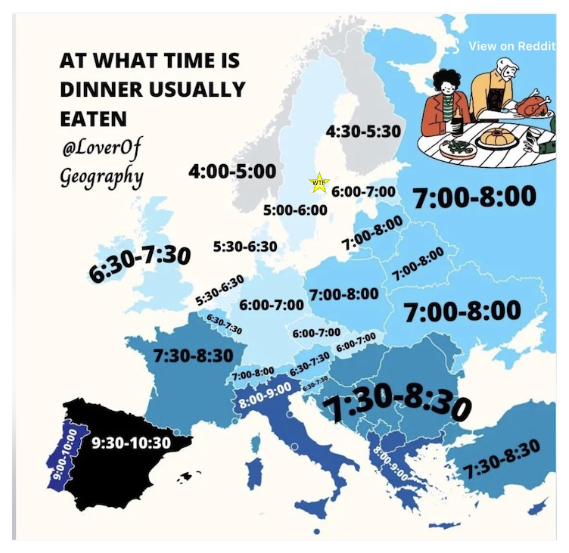
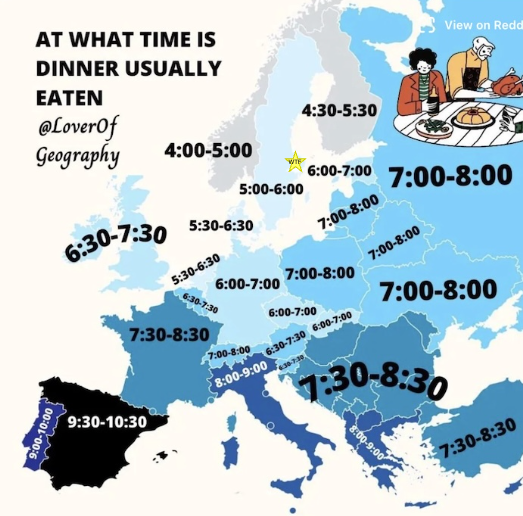
first cooking post

diff --git a/layouts/_default/post.html b/layouts/_default/post.html
@@ -1,11 +1,49 @@
 {{ define "header" }}
 <!-- Post Header -->
-<style type="text/css">
+<!-- <style type="text/css">
     header.intro-header {
-        /* background-image: url('{{ if .Params.image }}{{ .Params.image | relURL }}{{ else }}{{ .Site.Params.header_image | relURL}}{{ end }}') */
-        background-image: url('{{ .Site.Params.header_image | relURL}}');
+        background-image: url('{{ if .Params.image }}{{ .Params.image | relURL }}{{ else }}{{ .Site.Params.header_image | relURL}}{{ end }}')
+        /* background-image: url('{{ .Site.Params.header_image | relURL}}'); */
     }
+</style> -->
+
+<style type="text/css">
+  header.intro-header{
+    background-image:url('{{ if .Params.image }}{{ .Params.image | relURL }}{{ else }}{{ .Site.Params.header_image | relURL }}{{ end }}');
+    background-size: cover;
+    background-position: center;
+    position: relative;
+    overflow: hidden;
+  }
+
+  /* blurred background layer */
+  header.intro-header::before{
+    content:"";
+    position:absolute;
+    inset:0;
+    background: inherit;
+    filter: blur(3px);
+    transform: scale(1.05); /* avoid blur edge artifacts */
+    z-index: 0;
+  }
+
+  /* keep existing header content above blur */
+  header.intro-header .container,
+  header.intro-header .site-heading,
+  header.intro-header .post-heading{
+    position: relative;
+    z-index: 1;
+  }
+
+  /* blurred bounding box behind text */
+  header.intro-header .site-heading,
+  header.intro-header .post-heading{
+    display: inline-block;
+    backdrop-filter: blur(3px);
+    -webkit-backdrop-filter: blur(3px);
+  }
 </style>
+
 {{ if eq .Params.headerstyle "text" }}
 <header class="intro-header style-text" >
 {{ else }}
@@ -78,10 +116,10 @@
                 {{.TableOfContents}}
                 {{ end }}
                 -->
-                {{ with .Params.image }}
+                <!-- {{ with .Params.image }}
                 <img class="post-top-img" src="{{ . | relURL }}" alt="{{ $.Title }}" 
                 style="max-width:900px; max-height:420px; width: auto; height:auto; margin:12px 0;">
-                {{ end }}
+                {{ end }} -->
 
                 {{ .Content }}
 

diff --git a/content/post/2026-01-19-nordic-fish-one-pot.md b/content/post/2026-01-19-nordic-fish-one-pot.md
@@ -1,31 +1,115 @@
 ---
-layout:     post 
-draft:      true
-title:      "Nordic Fish One Pot with Tomato-Olive Risoni"
+layout:     post
+title:      "Nordic Fish One Pot with Tomato-Olive Risoni (3.75 ⭐)"
 subtitle:   "30-Minute Dinner Series"
 date:       2026-01-19
 author:     "Josh Dean"
 url:        "/cooking/nordic-fish-one-pot/"
 categories: ["cooking"]
 tags:       ["weeknight-dinner", "recipe", "one-pot", "fish", "risoni"]
-description: "Join me cooking a budget weeknight dinner in under 30 mins."
+description: "Join me in cooking a budget weeknight dinner in under 30 mins."
 image:      "/img/cooking/fish-one-pot/final_plate.jpeg"
 ---
 
 ## Intro
 
-If you know me, you know I love cooking extravagant, over-the-top meals. Born in spite from the blandness of Salt Lake City's "cuisine", I became a cooking monster with absurd stamina for the average weeknight meal. ...
+Growing up, I was always told we ate European-style: late, after 7PM, sometimes even stretching after 8. This became ingrained in me, and combined with my night-owl tendencies, dinner frequently became a pre-bed snack.
 
-Growing up, I was always told we ate European-style: late, after 7PM, sometimes even after 8. This also became ingrained in me, and combined with my nightowl tendencies, I frequently find myself starting took cook late into the night.
-
-You can imagine my surprise when I learned [the northern] half of Europe does not adhere to these standards [^1]:
+You can imagine my surprise when I learned [the northern] half of Europe does not adhere to these standards[^1]:
 
 ![Dinner Times](/img/cooking/fish-one-pot/dinner_times.png)
 
+True to form, Ida usually reports "starving" status by about 5:30PM. By the time I finish cooking, it's 7PM at the earliest (and the snacks are gone). Hearing my loyal customer, I have begun an initiative for 30-minute *max* meals, from ingredients laid out to eating.
 
-Additionally, I have really embraced the w
+I found this recipe in the archives of my Facebook DMs[^2]. It promised a fast meal, so I decided to give it a chance. We rarely eat white fish anymore, even though it is prevalent in the area, so this looked like a fun fusion of Nordic and southern European flavors.
 
-Equally, 
+## Ingredients
+- `1.5 lbs` white fish (~750 g)
+- `2 cups` risoni/orzo (~450 mL)
+- `1 can` cannellini/navy beans (400 g)
+- `1 cup` kalamata olives (~225 mL)
+- `1 cup` cherry tomatoes (~225 mL)
+- `2 tbsp` tomato paste (~30 mL)
+- `1` lemon (juice and zest)
+- `1/2` yellow onion
+- `1 tbsp` chicken fond/bouillon (~15 mL) + `2 cups` water (~450 mL)
+  - *Note: can substitute chicken stock*
+- `1 cup` water (~225 mL)
+- `1 tbsp` paprika (~15 mL)
+- `1 tbsp` dried oregano (~15 mL)
+- `1 tbsp` salt
+- `1 tsp` black pepper (~5 mL)
+- `1 tbsp` olive oil
+- Fresh parsley
+- `3 cloves` garlic (optional)
+
+![Ingredient Spread](/img/cooking/fish-one-pot/ingredient_spread.jpeg)
+
+I used an extremely mysterious nordic white fish known as a cusk in English, or brosme in Norwegian/Swedish? (Ida had never heard of either name). I would have preferred to use a cheaper alternative like frozen cod, but I shopped late and needed a fresh option, so cusk it was.
+
+I have really embraced using fond extracts in Sweden, as they are ubiquitous here and come in a variety of flavors. Chicken stock works equally as well, but when you have to carry your groceries home, it is among the first things to cut.
+
+## Directions
+`Timer: 30:00` 
+
+Begin coarsely dicing the half of the onion. If using garlic, finely dice (or press) three cloves and add everything to a large stockpot at medium-high heat with the olive oil. Stir occasionally to prevent burning.
+
+![Onion Garlic](/img/cooking/fish-one-pot/onion_garlic.jpeg)
+
+`Timer: 25:00` 
+
+Cut 10-12 cherry tomatoes in half lengthwise. Add to the pot along with the tomato paste, continuously stirring. 
+Add the risoni, water, and fond/stock into the mix. There should be 3 cups (~675 mL) of liquid in the pot now.
+
+Zest the lemon directly over the pot and squeeze in 1/2 of the juice. Add in the oregano and mix.
+
+Drain the 20-30 olives and stir into the pot. Lower the heat to medium. If all goes well, the base should be looking similar to this:
+
+![Pot Base](/img/cooking/fish-one-pot/pot_base.jpeg)
+
+`Timer: 20:00` 
+
+While the pot is simmering, pat dry and season both sides of the fish generously with the salt, pepper, and paprika. Cut into 3" (7.5 cm) sections. Catch your breath for one second.
+
+`Timer: 15:00`
+
+Lay the fish pieces atop of the base. Quickly wash the cutting board and coarsely chop some of the parsley and sprinkle over the top of the fish. Here is a very steamy status update:
+
+![Fish in Pot](/img/cooking/fish-one-pot/fish_in_pot.jpeg)
+
+`Timer: 10:00`
+
+Flip each pieces once. Open the can of beans, drain, and pour evenly over the top of the fish fillets. Lemon lovers can add another squeeze over the top of everything now. Lower the heat to medium-low.
+
+`Timer: 5:00`
+Use some discretion with the timer based on your fish variety, but when it is flaking easily, turn off the burner. 
+
+My pot had a lot of residual fluid at this point, so use a slotted spoon to scoop out the fish and base. Serve hot with more diced parsley and lemon zest over the top. Salt to taste.
+
+`Timer: 0:00`
+
+Eat! Enjoy a low effort, gourmet meal that pairs flaky fish with a delicious Mediterranean base.
+
+![Final Plate](/img/cooking/fish-one-pot/final_plate.jpeg)
+
+## Critique
+**Josh Rating**: 4 ⭐ <br>
+**Ida Rating**: 3.5 ⭐ <br>
+**Speed**: 5 ⭐ <br>
+**Clean-up**: 4 ⭐ <br>
+**Cost**: $$ *(depending on fish type)*
+
+### - Summary
+
+This a unique blend of flavors and textures. I have eaten a lot of halibut in my life, and this would be a phenomenal dish for it if you are willing to splurge. I never cook with olives, and both Ida and I agreed they were a fantastic counter to the fish, refreshing the palate with wash of vinegar. Ida did not like the beans, and they were admittedly a bit strange with the fish texture, but I found it to be surprisingly pleasant.
+
+The cusk fish was a rollercoaster in itself. Probably the sharpest bones I have ever had in a fish filet, and the meat was thick like lobster or maybe even chicken. I googled a photo [^3] of it after and they are some real deep-water freaksters:
+
+![Brosme Fish](/img/cooking/fish-one-pot/brosme_fish.jpg)
+
+The dish achieved the 30-minute goal, and clean-up was minimal. All in all, definitely worth a try if you want to spice up your weeknight dinners.
 
 ## References
 [^1]: https://www.buzzfeed.com/jenniferadams2/usual-dinner-times-reddit
+[^2]: https://www.facebook.com/share/r/1PMV8aidab/?mibextid=wwXIfr
+[^3]: https://commons.wikimedia.org/wiki/File:Brosme_brosme_fished.jpg
